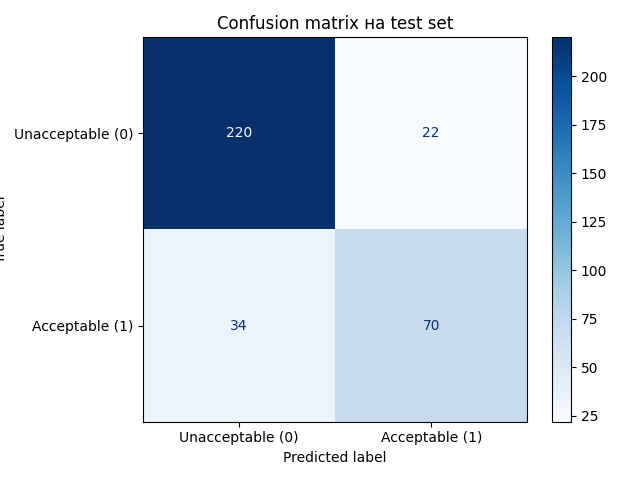
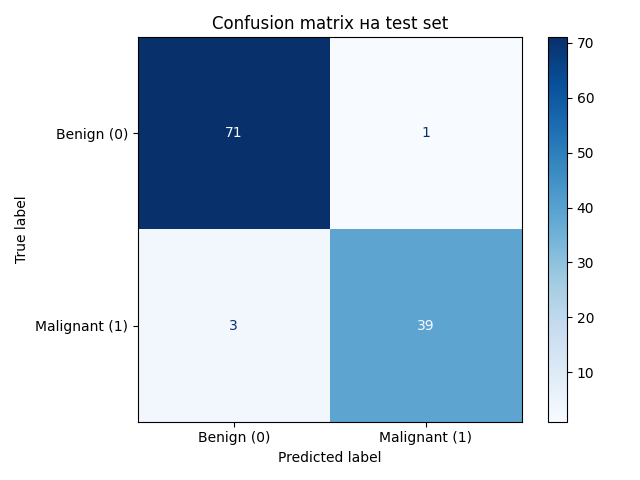
lr2 v2

diff --git a/lr2/lr2.py b/lr2/lr2.py
@@ -1,85 +1,79 @@
 import numpy as np
 import pandas as pd
 import matplotlib.pyplot as plt
-import seaborn as sns
 import warnings
+warnings.filterwarnings('ignore')
 
+from sklearn.datasets import load_breast_cancer
 from sklearn.model_selection import train_test_split, StratifiedKFold, cross_validate
 from sklearn.pipeline import Pipeline
-from sklearn.compose import ColumnTransformer
-from sklearn.preprocessing import OrdinalEncoder, StandardScaler
+from sklearn.preprocessing import StandardScaler
 from sklearn.dummy import DummyClassifier
 from sklearn.linear_model import LogisticRegression
 from sklearn.naive_bayes import GaussianNB
 from sklearn.metrics import (
-    accuracy_score, precision_score, recall_score, f1_score, roc_auc_score,
-    confusion_matrix, ConfusionMatrixDisplay, roc_curve
+    make_scorer, accuracy_score, precision_score, recall_score, f1_score,
+    roc_auc_score, confusion_matrix, ConfusionMatrixDisplay, roc_curve
 )
 
-warnings.filterwarnings('ignore')
+# 1. Завантаження набору даних (Варіант 6)
+data = load_breast_cancer(as_frame=True)
+X = data.data.copy()
+y_original = data.target.copy()
 
-# 1. Завантаження даних
-url = "https://archive.ics.uci.edu/ml/machine-learning-databases/car/car.data"
-columns = ['buying', 'maint', 'doors', 'persons', 'lug_boot', 'safety', 'class']
+# За замовчуванням у scikit-learn: 0 - malignant, 1 - benign.
+# Для медичної задачі позитивним класом (y=1) робимо malignant (злоякісна пухлина):
+y = 1 - y_original
 
-try:
-    df = pd.read_csv(url, names=columns)
-except Exception:
-    df = pd.read_csv('car.data', names=columns)
+print(f"Розмір набору даних: {X.shape}")
+print(f"Пропущені значення: {X.isnull().sum().sum()}")
+print(f"Дублікати: {X.duplicated().sum()}")
+print("\nРозподіл класів (0 - Benign, 1 - Malignant):")
+print(y.value_counts().sort_index())
+print(f"Частка позитивного класу (Malignant): {y.mean():.4f}")
 
-# 2. Формування бінарної цільової змінної: 0 - unacc, 1 - acc/good/vgood
-df['target'] = df['class'].apply(lambda x: 0 if x == 'unacc' else 1)
+# Графік розподілу класів (діагностика)
+plt.figure(figsize=(6, 4))
+plt.bar(['Benign (0)', 'Malignant (1)'], y.value_counts().sort_index(), color=['#2b5c8f', '#d95f02'], edgecolor='black')
+plt.ylabel('Кількість спостережень')
+plt.title('Розподіл об\'єктів за класами')
+plt.grid(axis='y', alpha=0.3)
+plt.tight_layout()
+plt.savefig('class_distribution_lr2.png')
+plt.close()
 
-print("Розподіл бінарних класів:")
-print(df['target'].value_counts())
-print(f"Частка позитивного класу: {df['target'].mean():.4f}")
-
-X = df.drop(columns=['class', 'target'])
-y = df['target']
-
-# 3. Стратифіковане розділення даних (80% / 20%)
+# 2. Стратифіковане розділення даних (80% / 20%)
 X_train, X_test, y_train, y_test = train_test_split(
     X, y, test_size=0.2, random_state=42, stratify=y
 )
 
-# 4. Препроцесинг: OrdinalEncoder для збереження монотонності
-categories_order = [
-    ['low', 'med', 'high', 'vhigh'],
-    ['low', 'med', 'high', 'vhigh'],
-    ['2', '3', '4', '5more'],
-    ['2', '4', 'more'],
-    ['small', 'med', 'big'],
-    ['low', 'med', 'high']
-]
-
-preprocessor = ColumnTransformer(
-    transformers=[
-        ('ord', OrdinalEncoder(categories=categories_order), X.columns.tolist())
-    ]
-)
-
-# 5. Побудова моделей
+# 3. Моделі в межах Pipeline
 models = {
     'Baseline': DummyClassifier(strategy='most_frequent'),
     'Logistic Regression': Pipeline([
-        ('prep', preprocessor),
         ('scaler', StandardScaler()),
         ('clf', LogisticRegression(max_iter=1000, random_state=42))
     ]),
     'GaussianNB': Pipeline([
-        ('prep', preprocessor),
+        ('scaler', StandardScaler()),
         ('clf', GaussianNB())
     ])
 }
 
-# 6. Стратифікована крос-валідація на 5 фолдах
+# 4. 5-fold Stratified Cross-Validation
 cv = StratifiedKFold(n_splits=5, shuffle=True, random_state=42)
-scoring = ['accuracy', 'precision', 'recall', 'f1', 'roc_auc']
+scoring = {
+    'accuracy': 'accuracy',
+    'precision': make_scorer(precision_score, zero_division=0),
+    'recall': make_scorer(recall_score, zero_division=0),
+    'f1': make_scorer(f1_score, zero_division=0),
+    'roc_auc': 'roc_auc'
+}
 
-cv_results_list = []
+cv_records = []
 for name, model in models.items():
     res = cross_validate(model, X_train, y_train, cv=cv, scoring=scoring)
-    cv_results_list.append({
+    cv_records.append({
         'Model': name,
         'Accuracy': f"{res['test_accuracy'].mean():.4f} +/- {res['test_accuracy'].std():.4f}",
         'Precision': f"{res['test_precision'].mean():.4f} +/- {res['test_precision'].std():.4f}",
@@ -88,11 +82,11 @@ for name, model in models.items():
         'ROC-AUC': f"{res['test_roc_auc'].mean():.4f} +/- {res['test_roc_auc'].std():.4f}"
     })
 
-cv_df = pd.DataFrame(cv_results_list)
+cv_df = pd.DataFrame(cv_records)
 print("\n--- Результати 5-fold Stratified Cross-Validation ---")
 print(cv_df.to_string(index=False))
 
-# 7. Навчання та фінальне тестування найкращої моделі (Logistic Regression)
+# 5. Фінальне навчання Logistic Regression та тест
 best_model = models['Logistic Regression']
 best_model.fit(X_train, y_train)
 
@@ -112,22 +106,21 @@ print(f"Recall = {rec:.4f}")
 print(f"F1 = {f1:.4f}")
 print(f"ROC-AUC = {auc:.4f}")
 
-# 8. Матриця помилок
+# 6. Матриця помилок
 cm = confusion_matrix(y_test, y_pred)
 tn, fp, fn, tp = cm.ravel()
 print(f"\nConfusion Matrix: TN={tn}, FP={fp}, FN={fn}, TP={tp}")
 
-disp = ConfusionMatrixDisplay(confusion_matrix=cm, display_labels=['Unacceptable (0)', 'Acceptable (1)'])
+disp = ConfusionMatrixDisplay(confusion_matrix=cm, display_labels=['Benign (0)', 'Malignant (1)'])
 disp.plot(cmap='Blues', values_format='d')
 plt.title('Confusion matrix на test set')
 plt.tight_layout()
 plt.savefig('confusion_matrix_lr2.png')
 plt.close()
 
-# 9. Дослідження порогів класифікації (thresholds)
+# 7. Аналіз порогів прийняття рішень
 thresholds = [0.3, 0.5, 0.7]
 thresh_rows = []
-
 for t in thresholds:
     y_pred_t = (y_proba >= t).astype(int)
     cm_t = confusion_matrix(y_test, y_pred_t)
@@ -145,7 +138,6 @@ thresh_df = pd.DataFrame(thresh_rows)
 print("\n--- Вплив Decision Threshold на помилки та метрики ---")
 print(thresh_df.to_string(index=False))
 
-# Графік залежності метрик від threshold
 plt.figure(figsize=(7, 5))
 plt.plot(thresh_df['Threshold'], thresh_df['Precision'], marker='o', label='Precision')
 plt.plot(thresh_df['Threshold'], thresh_df['Recall'], marker='s', label='Recall')
@@ -159,7 +151,7 @@ plt.tight_layout()
 plt.savefig('threshold_metrics_lr2.png')
 plt.close()
 
-# 10. Побудова ROC-кривої
+# 8. Побудова ROC-кривої
 fpr, tpr, _ = roc_curve(y_test, y_proba)
 plt.figure(figsize=(6, 5))
 plt.plot(fpr, tpr, label=f"Logistic Regression (AUC = {auc:.4f})", color='steelblue', lw=2)
@@ -173,7 +165,7 @@ plt.tight_layout()
 plt.savefig('roc_curve_lr2.png')
 plt.close()
 
-# 11. Таблиця аналізу помилок (FP та FN)
+# 9. Таблиця помилок
 errors_df = X_test.copy()
 errors_df['actual'] = y_test
 errors_df['predicted'] = y_pred
@@ -185,5 +177,6 @@ errors_df['error_type'] = np.where(
 errors_df = errors_df[errors_df['error_type'] != 'None'].copy()
 errors_df['distance_to_threshold'] = (errors_df['probability'] - 0.5).abs()
 
-print("\n--- Помилково класифіковані об'єкти (перші 10) ---")
-print(errors_df[['actual', 'predicted', 'probability', 'error_type', 'distance_to_threshold'] + list(X.columns)].head(10).to_string())
+print("\n--- Помилково класифіковані об'єкти ---")
+cols_to_show = ['actual', 'predicted', 'probability', 'error_type', 'distance_to_threshold', 'mean radius', 'mean texture', 'mean concavity', 'worst radius']
+print(errors_df[cols_to_show].to_string())
